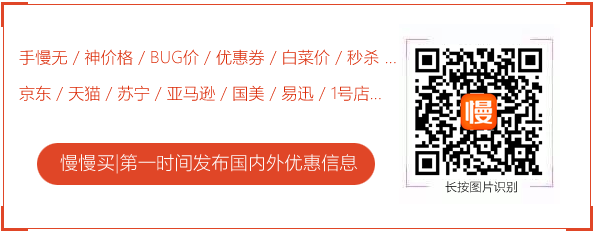
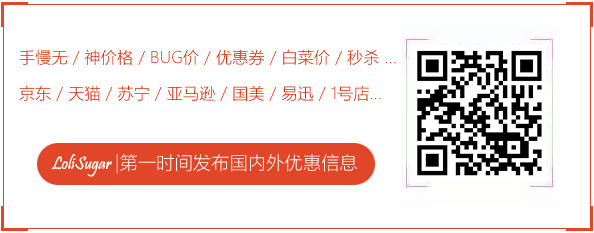
细节优化

Changed region(s): [[0.697, 0.1803, 0.9394, 0.8412], [0.0909, 0.6609, 0.2121, 0.7511]]

diff --git a/src/components/baicaijia/Ads.vue b/src/components/baicaijia/Ads.vue
@@ -1,11 +1,11 @@
 <!-- 广告组件 -->
 <template>
     <div>
-        <!--慢慢买APP下载-->
+        <!--APP下载-->
         <div id="appDown" v-show="AppDown">
             <a href="http://m.manmanbuy.com/?o=download">
                 <a class="closeAppDown" href="javascript:;" @click.stop="closeAppDown()">X</a>
-                <span class="one">慢</span>
+                <span class="one">买</span>
                 <div class="two">App 下载</div>
             </a>
         </div>
@@ -13,7 +13,7 @@
         <section class="app-show" v-show="AppShow">
             <a class="closefix" href="javascript:;" @click="closeAppShow()"></a>
             <i class="icon"></i>
-            <p class="fixtitle">慢慢买</p>
+            <p class="fixtitle">LoliSugar</p>
             <p class="">全国比价 查历史价格</p>
             <a class="down-btn" href="#">立即打开</a>
         </section>

diff --git a/src/components/home/Home.vue b/src/components/home/Home.vue
@@ -55,10 +55,10 @@
         </div>
         <!-- list部分end -->
         <div class="list-tit">
-            <a href="html/brandTitle.html">
+            <a href="/brandTitle">
                 <span>品牌排行</span>
             </a>
-            <a href="html/brandTitle.html">
+            <a href="/brandTitle">
                 <img src="/src/assets/images/more.png" alt="">
             </a>
         </div>
@@ -137,8 +137,8 @@ export default {
 
 .list-tit {
     height: 35px;
-    background-color: #ff9000;
-    background: -webkit-gradient(linear, 0 0, 0 100%, from(#ffaf47), to(#ff9000));
+    background-color: #e4393c;
+    background: -webkit-gradient(linear, 0 0, 0 100%, from(#f25e61), to(#e4393c));
     border-bottom: 1px solid #ffc881;
     font-size: 16px;
     padding-left: 10px;

diff --git a/src/components/home/HomeHeader.vue b/src/components/home/HomeHeader.vue
@@ -4,7 +4,7 @@
         <!-- header头部开始 -->
         <header id='header' class='header'>
             <div class="logo">
-                <router-link to="/" title='慢慢买'>
+                <router-link to="/" title='LoliSugar'>
                     <img src="/src/assets/images/header_logo.png">
                 </router-link>
             </div>
@@ -20,7 +20,7 @@
 <style scoped lang="less">
 #header {
     height: 50px;
-    background-color: #ff841d;
+    background-color: #e4393c;
     border-bottom: 1px solid #e6e6e6;
     position: relative;
     vertical-align: middle;

diff --git a/src/components/baicaijia/RedHeader.vue b/src/components/baicaijia/RedHeader.vue
@@ -3,7 +3,7 @@
     <div id="headerr">
         <div class="title">
             <router-link to="../index" class="fl"><img src="/src/assets/images/icon-back.png" alt=""></router-link>
-            <a href="http://m.manmanbuy.com/?o=download" class="fr"><img src="/src/assets/images/header_app.png" alt=""></a>
+            <a href="javascript:void(0)" class="fr"><img src="/src/assets/images/header_app.png" alt=""></a>
             <h2>白菜价-淘宝内部券</h2>
         </div>
     </div>

diff --git a/src/components/common/NormFooter.vue b/src/components/common/NormFooter.vue
@@ -12,9 +12,9 @@
             </div>
             <!--下方文字-->
             <div class="footer-bottom">
-                <a href="#"><span>手机APP下载</span>&nbsp;慢慢买手机版 </a><span>--掌上比价平台</span>
+                <a href="#"><span>手机APP下载</span>&nbsp;手机版 </a><span>--掌上比价平台</span>
                 <br>
-                <p>m.manmanbuy.com</p>
+                <p>demo.lolisugar.com</p>
             </div>
         </div>
     </div>

diff --git a/index.html b/index.html
@@ -3,7 +3,7 @@
   <head>
     <meta charset="utf-8">
     <meta name="viewport" content="width=device-width, initial-scale=1.0,user-scalable=0">
-    <title>慢慢买</title>
+    <title>LoliSugar</title>
     <!-- Bootstrap -->
     <link href="./lib/bootstrap/dist/css/bootstrap.min.css" rel="stylesheet">
   </head>

diff --git a/src/components/common/Search.vue b/src/components/common/Search.vue
@@ -30,7 +30,7 @@
             padding-left: 20px;
         }
         >input[type='button'] {
-            background-color: #ff841d;
+            background-color: #e4393c;
             width: 63px;
             height: 30px;
             line-height: 30px;

diff --git a/src/components/common/NormHeader.vue b/src/components/common/NormHeader.vue
@@ -17,7 +17,7 @@
 </template>
 <style scoped lang="less">
 @whiteColor: #ffffff;
-@mainColor: #FF841D;
+@mainColor: #e4393c;
 //头部
 .mmb-header {
     height: 50px;

diff --git a/README.md b/README.md
@@ -1,8 +1,8 @@
-# 仿慢慢买
+# 仿电商网站
 
 > demo.lolisugar.com
 
-个人Vue练习项目，仿慢慢买
+个人Vue练习项目，仿电商网站
 
 ## 使用框架
 
